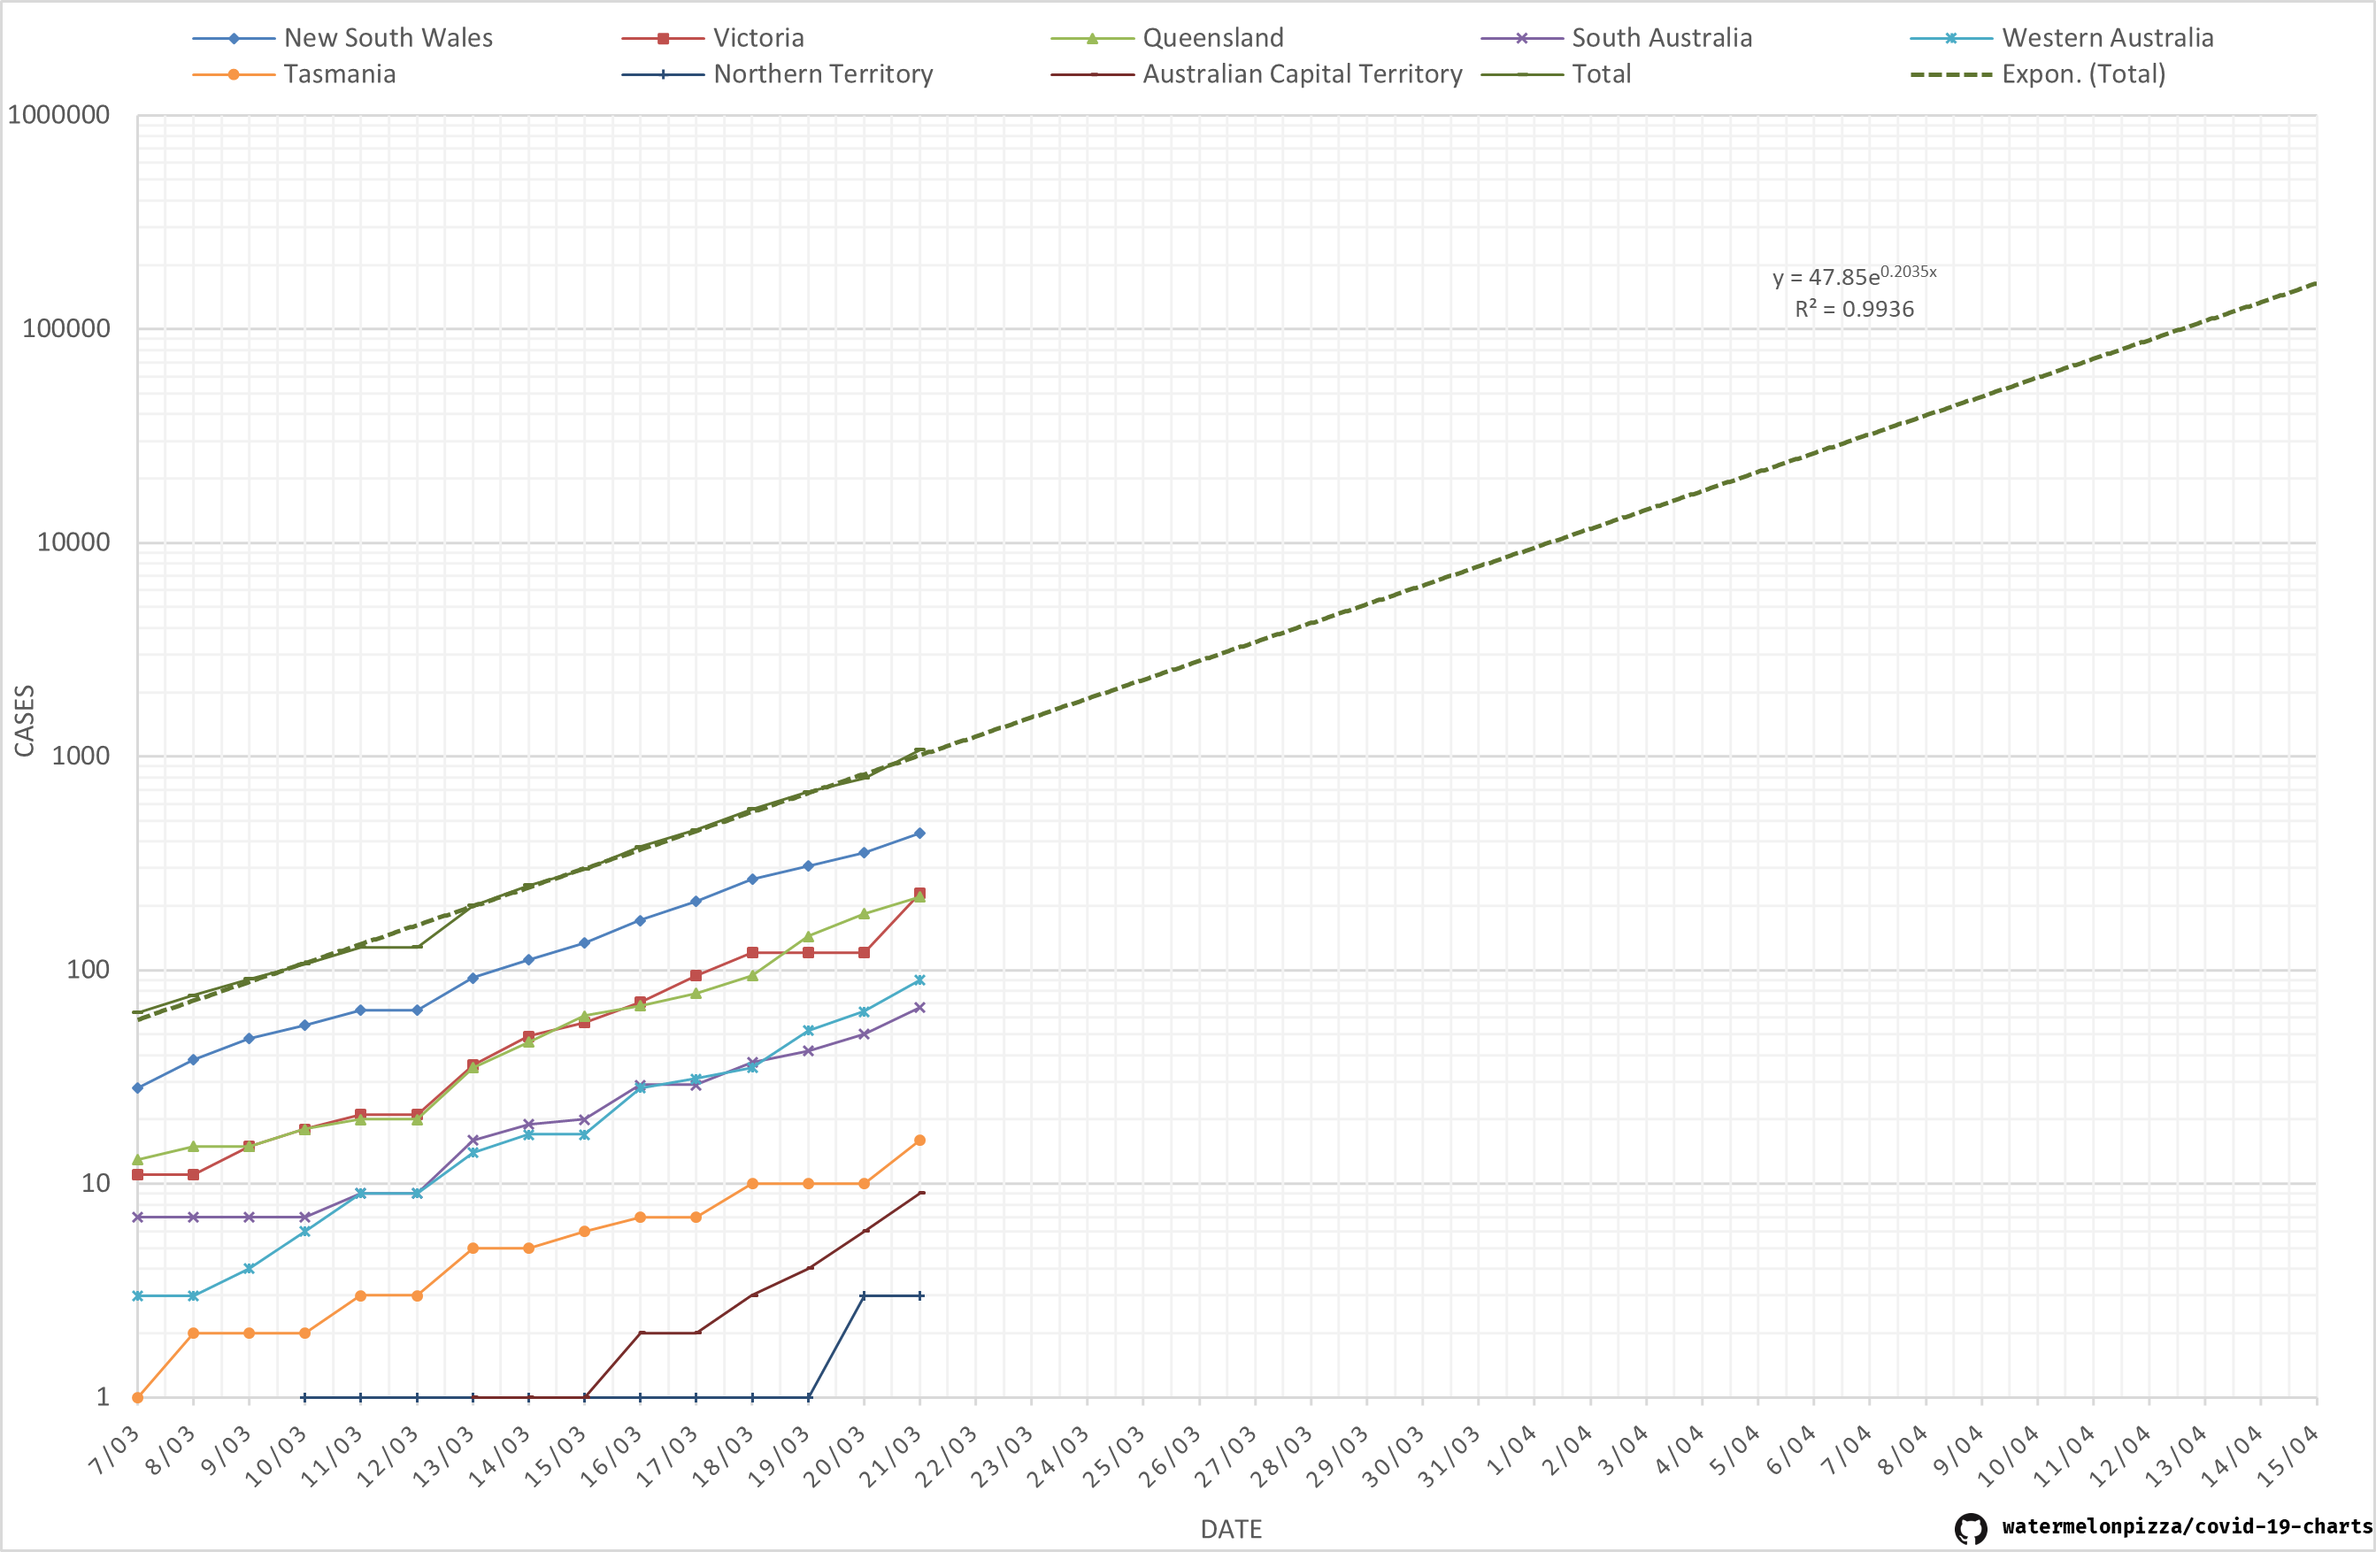
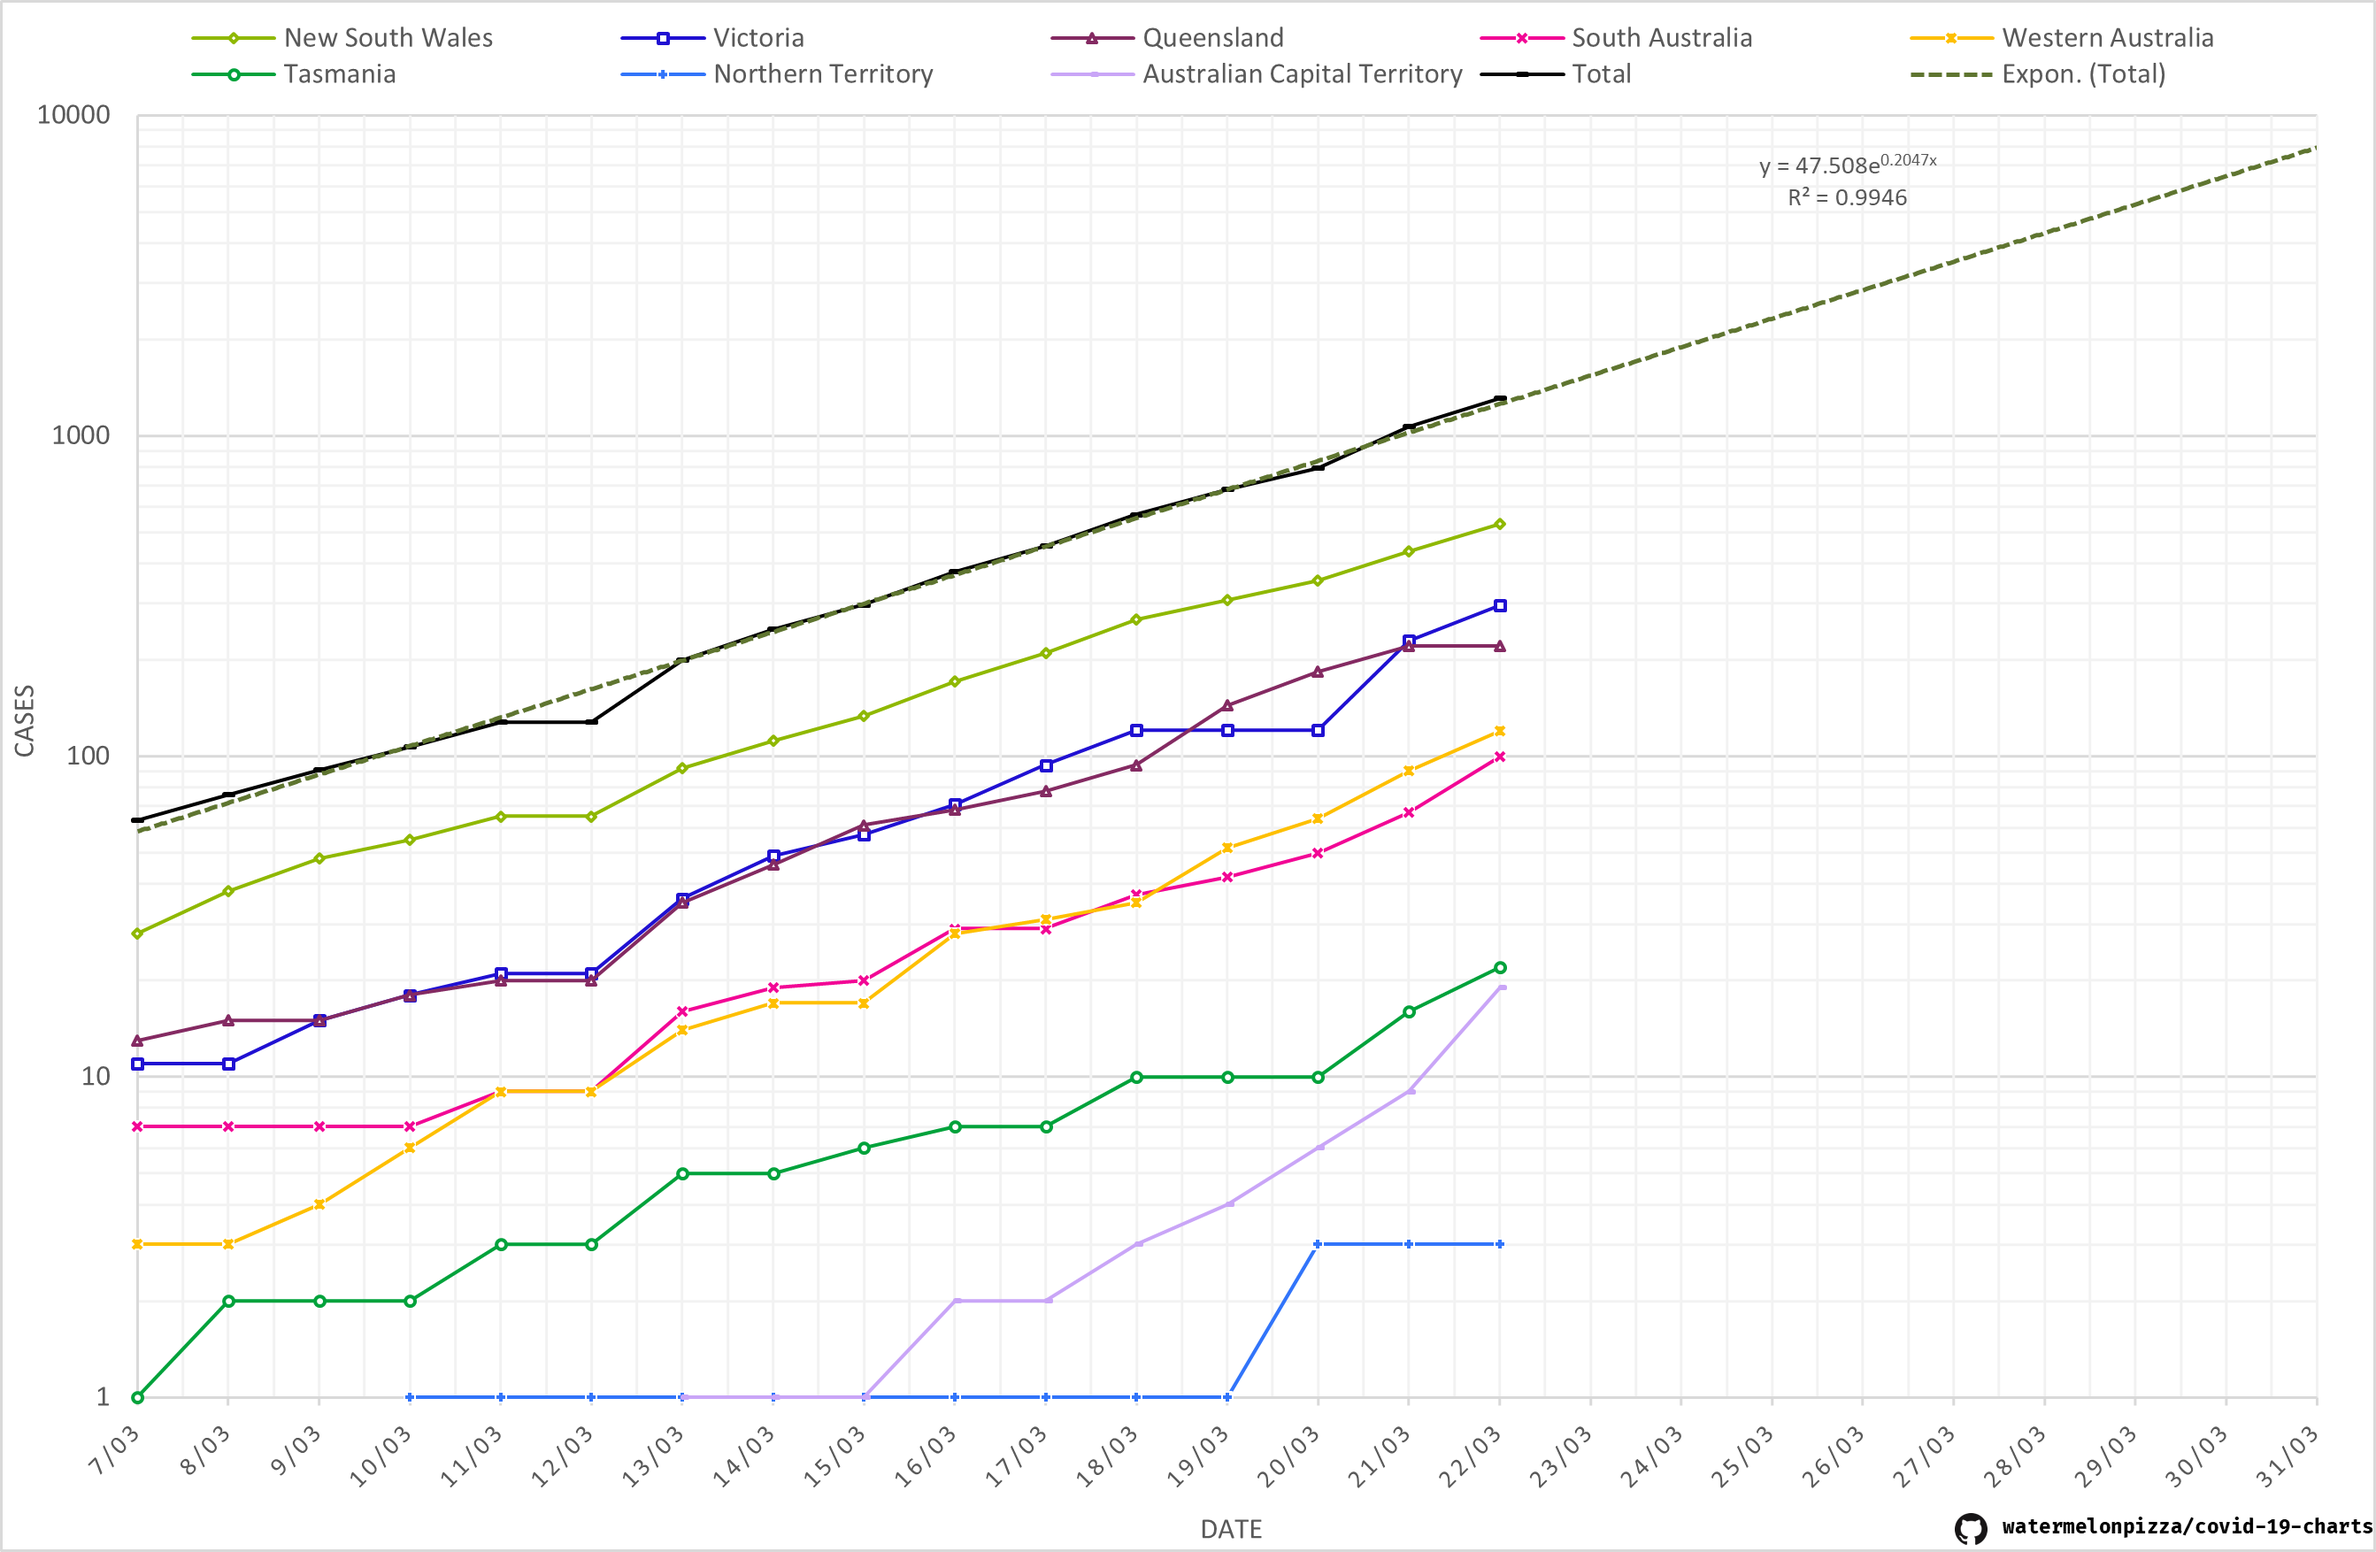
chart update 2020-03-23
- Move to log(10) charts with minor gridlines
- Add Australia deaths to readme
- Hopefully consistant marker types for countries between graphs

diff --git a/README.md b/README.md
@@ -29,4 +29,8 @@ Chart data sourced from [2019 Novel Coronavirus COVID-19 \(2019-nCoV\) Data Repo
 ![Days Since 1 Death Per 1,000,000 (1M) People Per Country](/deaths_days_since_by_population.png)
 
 # Australia State Breakdown and Trend
-![Cases Per Country](/australia_totals.png)
+### Cases
+![Cases Per State](/australia_totals.png)
+
+### Deaths
+![Deaths Per State](/australia_totals_deaths.png)
